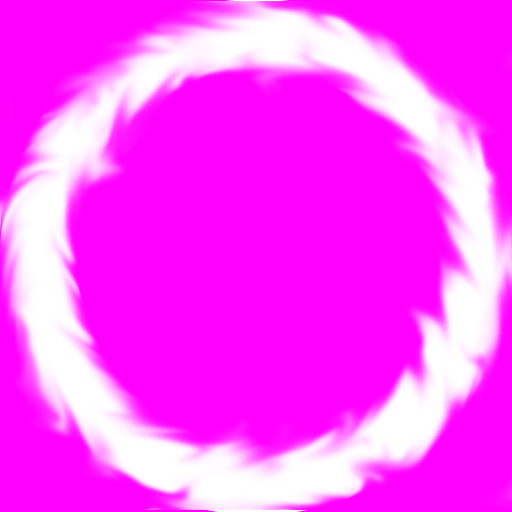
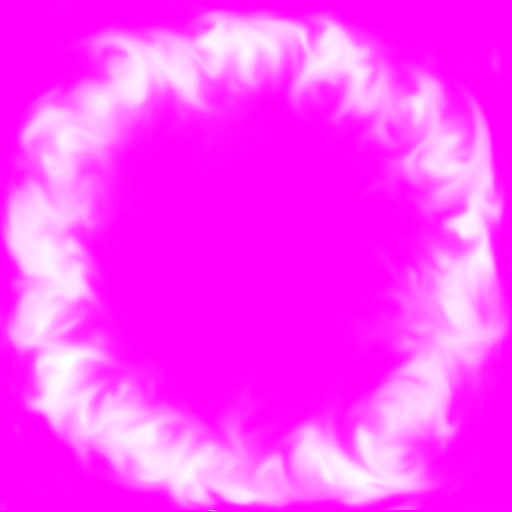
jajajajaja

diff --git a/a5-multiman/src/gameobject.cpp b/a5-multiman/src/gameobject.cpp
@@ -917,9 +917,14 @@ void Building::draw_selection_circle(int size){
     loc = glGetUniformLocation(gl_shader_object(find_shader("selection_circle_shader")), "color");
     glUniform3fv(loc,1,(float *) &color);
 
+    loc = glGetUniformLocation(gl_shader_object(find_shader("selection_circle_shader")), "ctime");
+    glUniform1f(loc,rot_timer.look());
+
     bind_texture(find_texture("selection_circle"), 0);
     loc = glGetUniformLocation(gl_shader_object(find_shader("selection_circle_shader")), "tex");
     glUniform1i(loc, 0);
+
+
 
     bind_mesh_to_gl(selection_circle->mesh);
 
